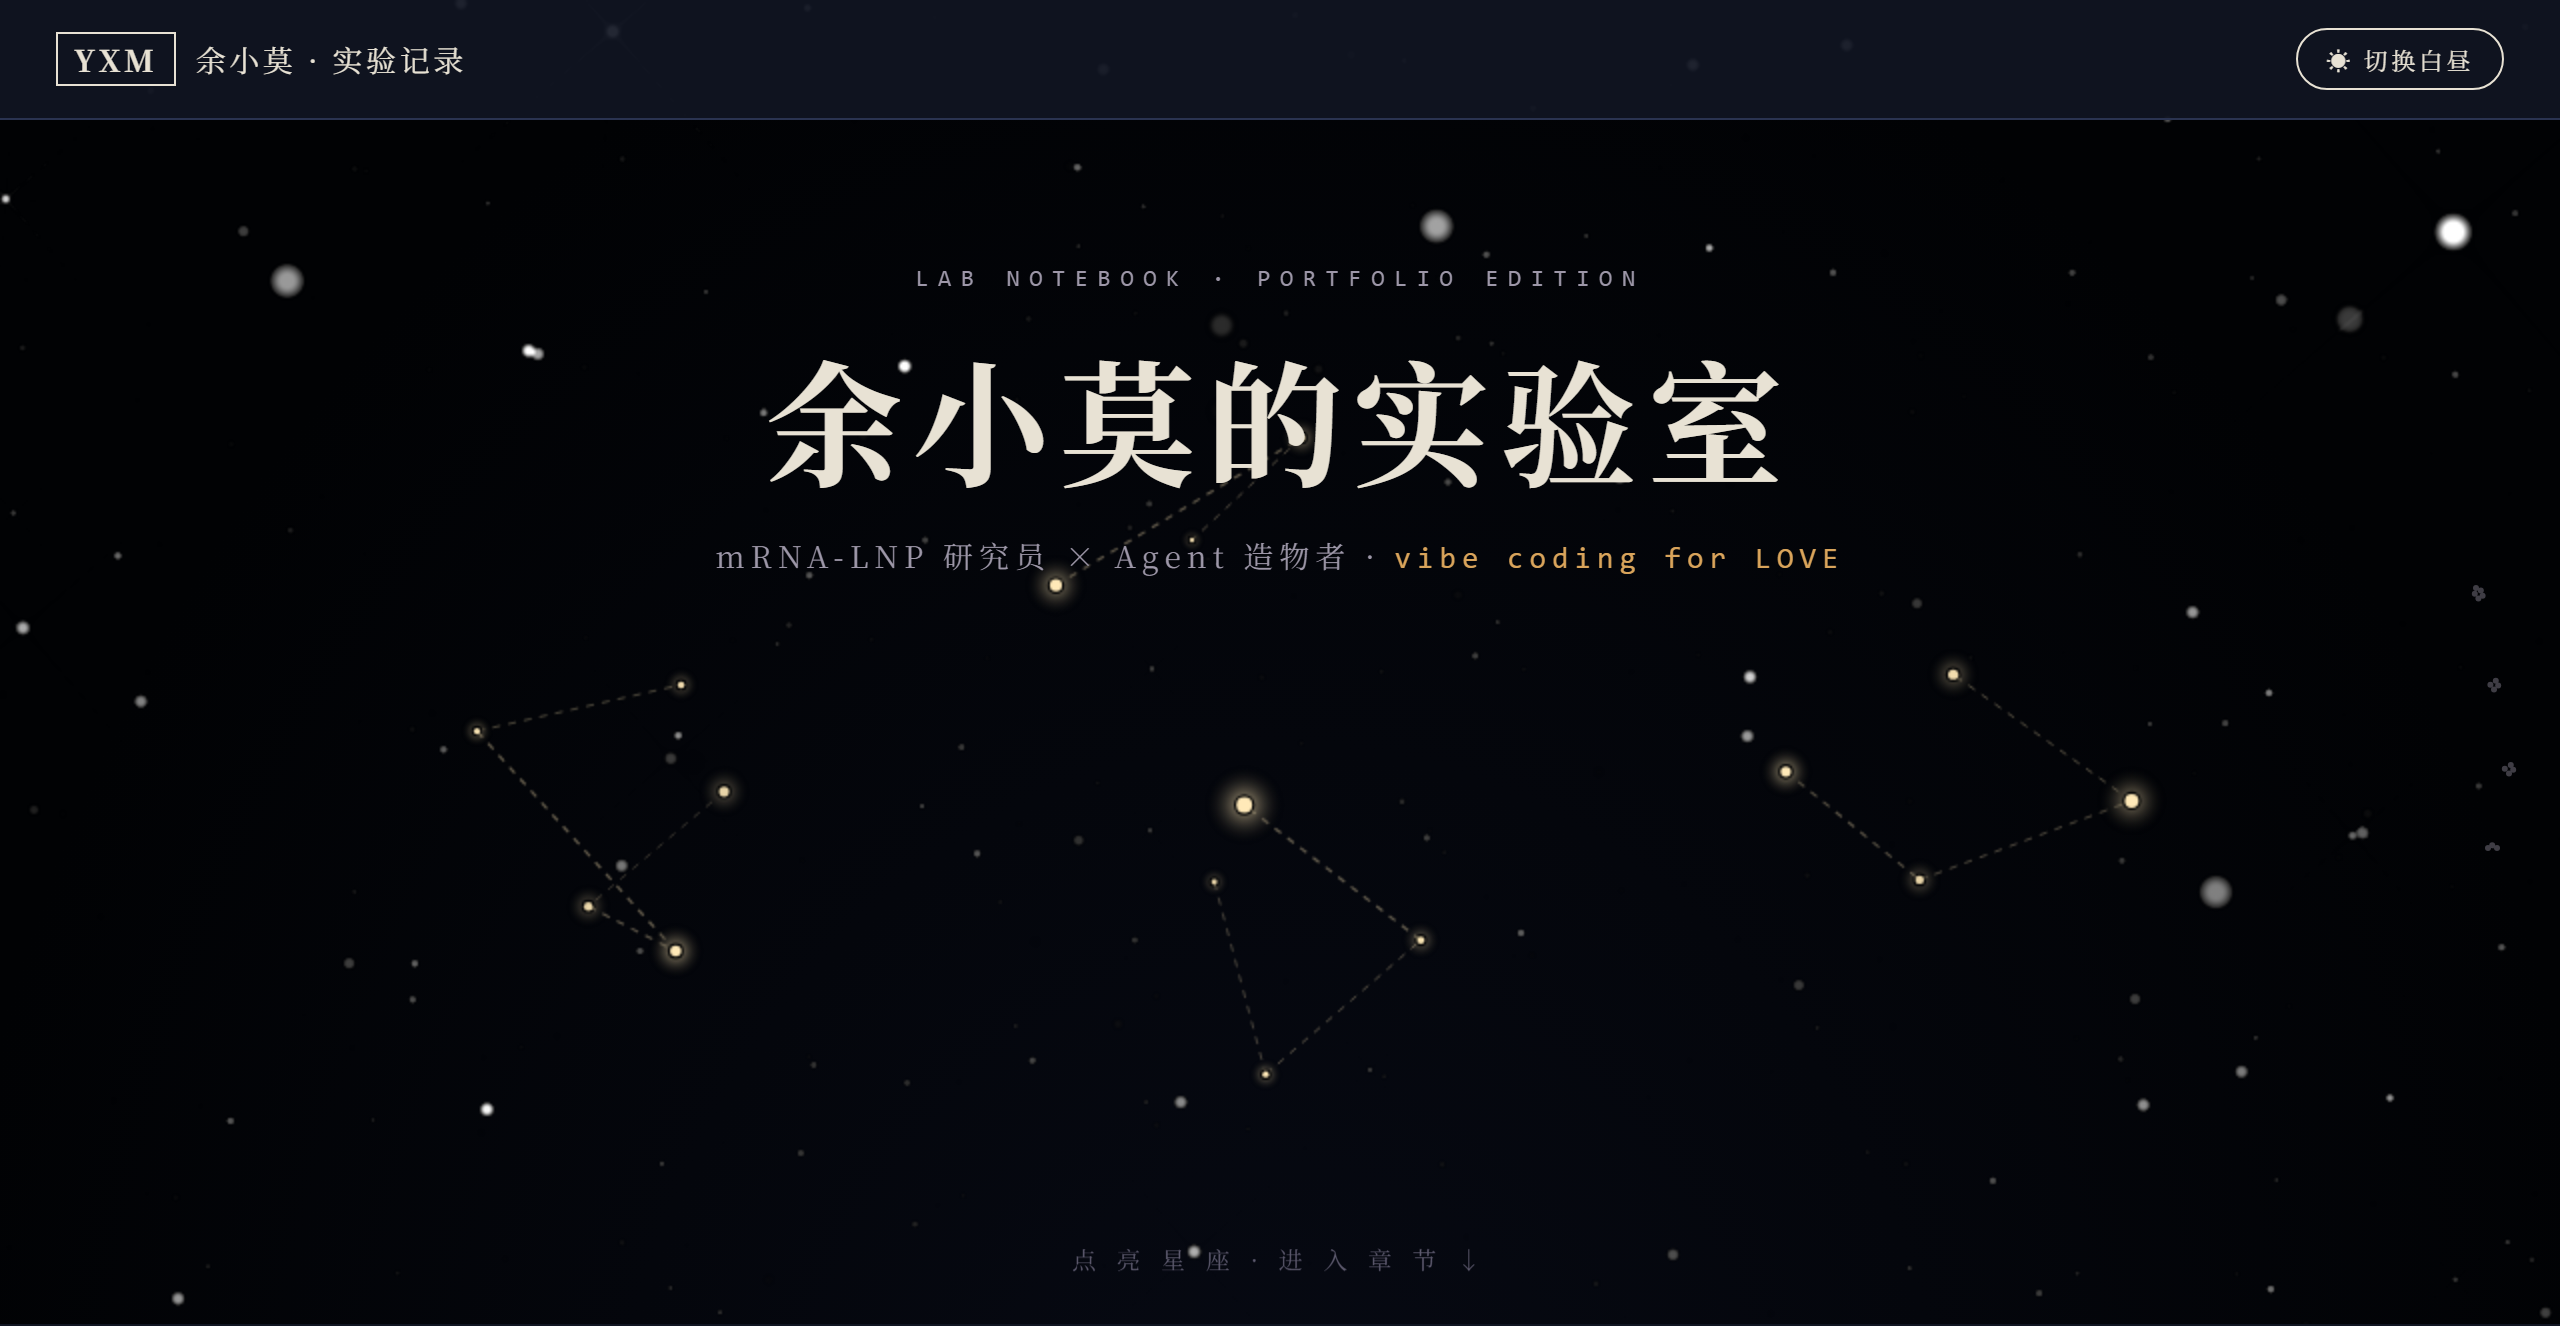
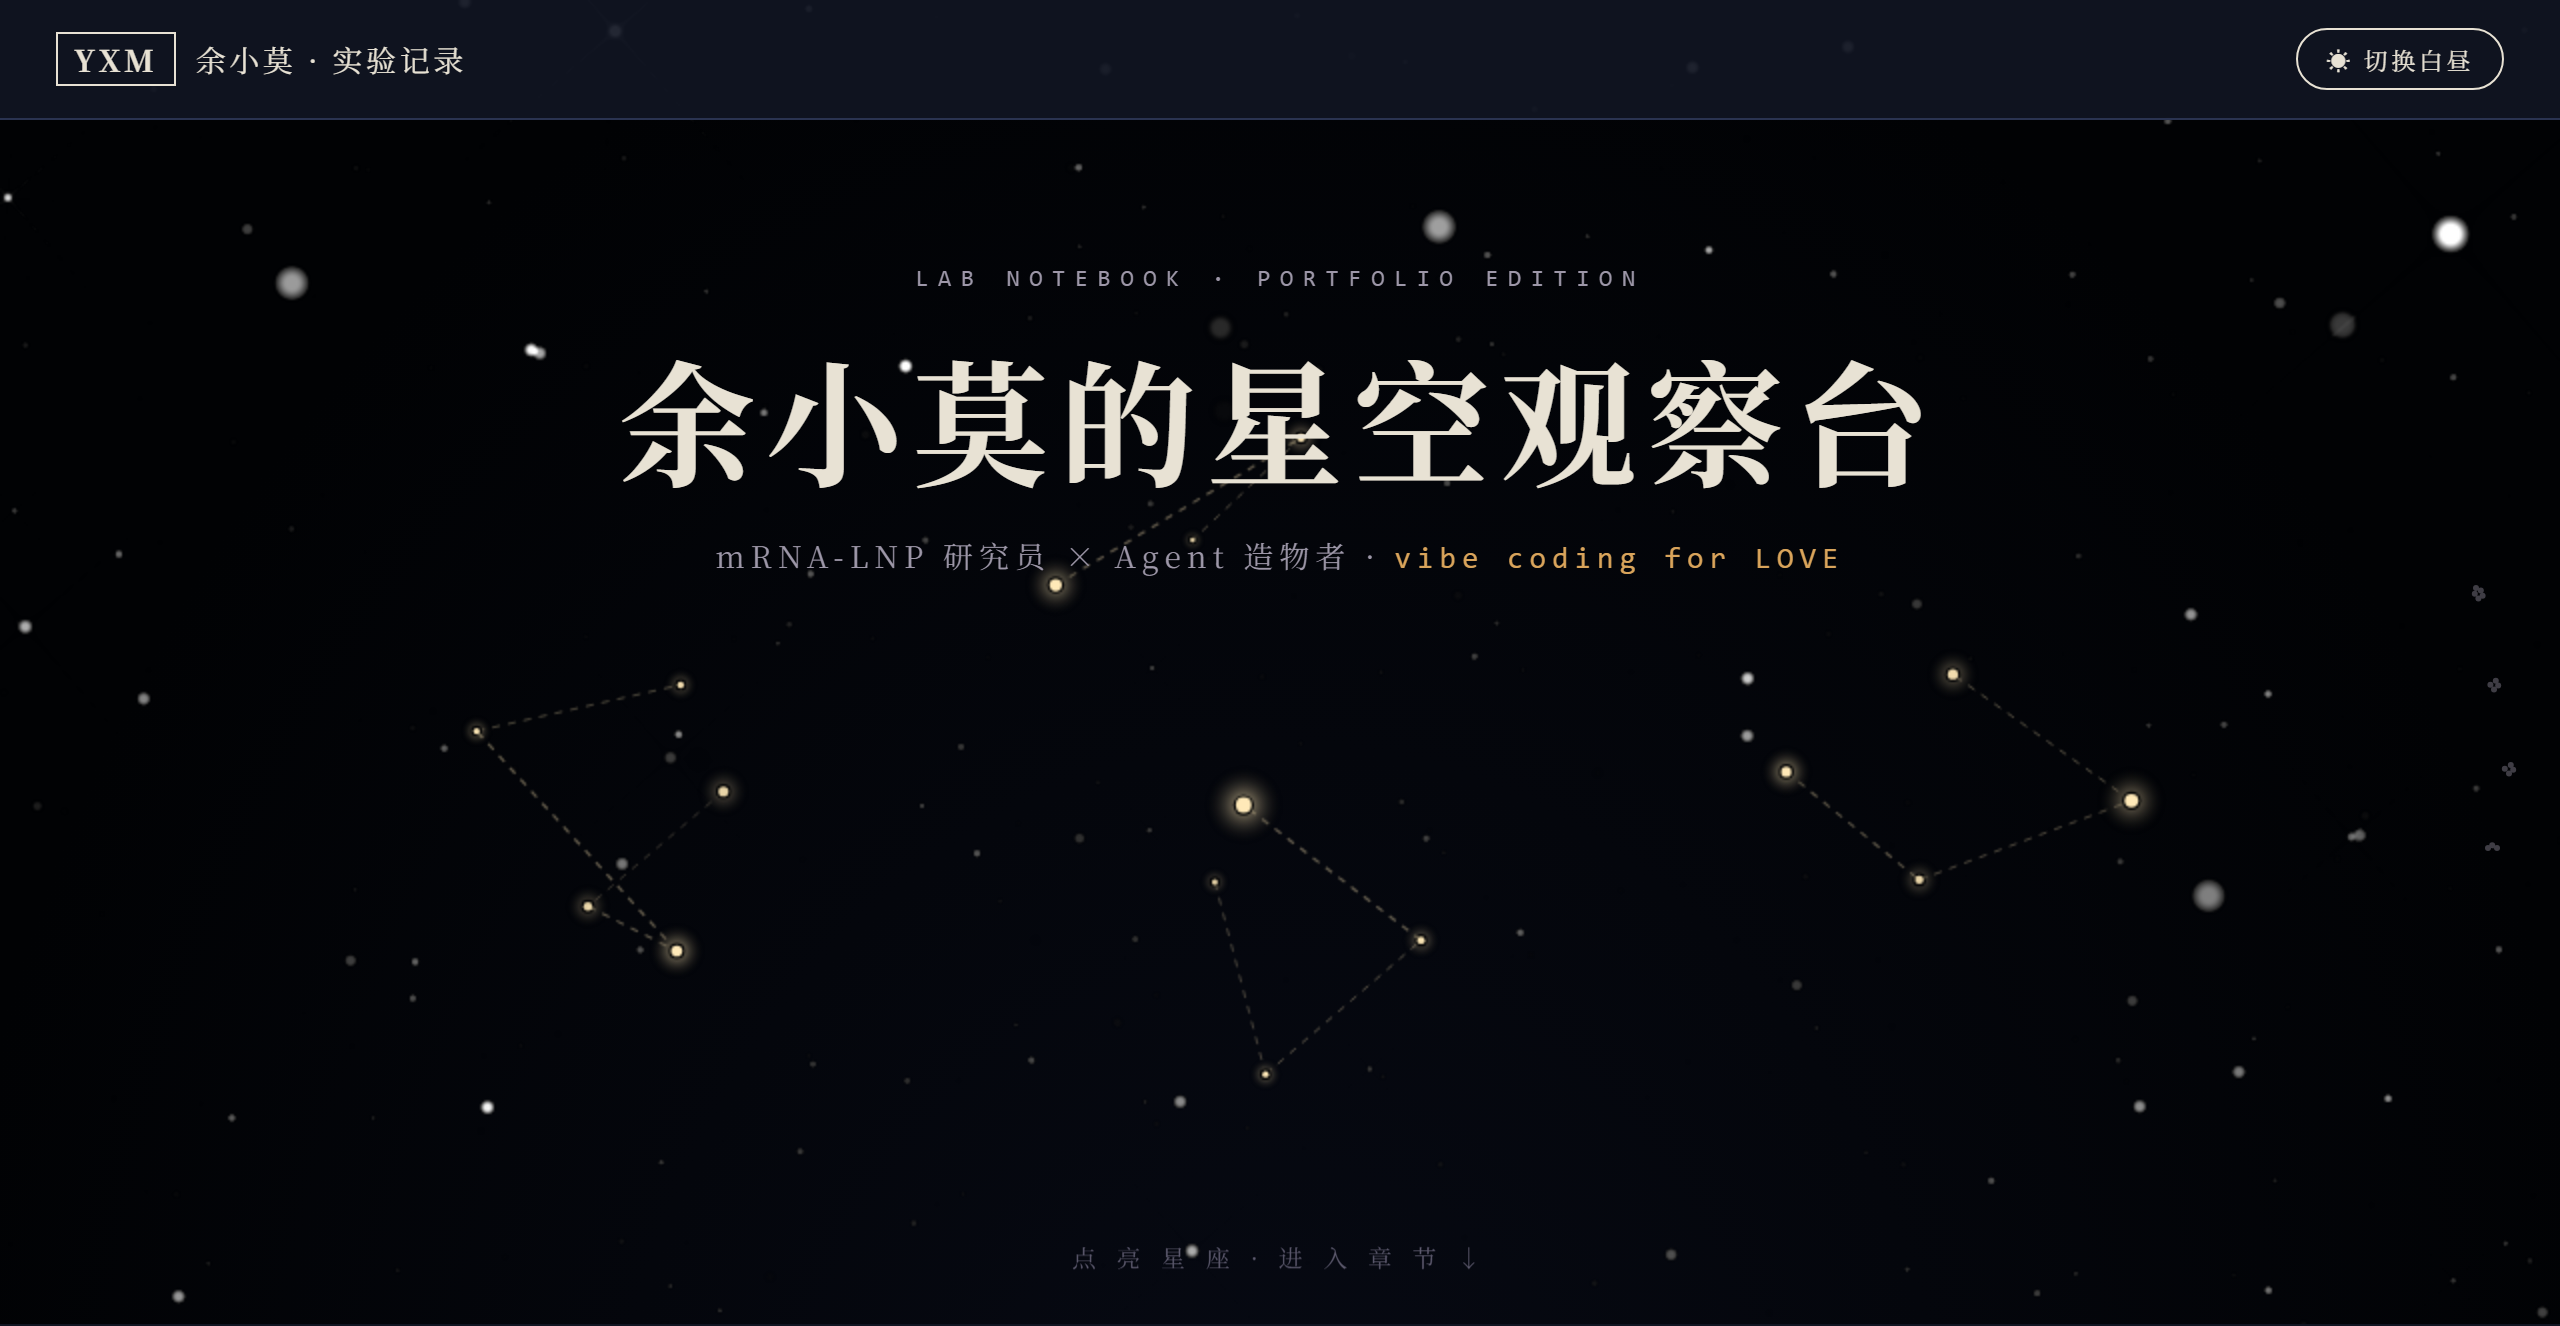
chore: 对齐项目名「余小莫的星空观察台」（页面标题 + hero 主标题 + README 预览图）

diff --git a/index.html b/index.html
@@ -3,7 +3,7 @@
 <head>
 <meta charset="UTF-8">
 <meta name="viewport" content="width=device-width, initial-scale=1.0">
-<title>余小莫 · 实验室作品集 — vibe coding for LOVE</title>
+<title>余小莫的星空观察台 — vibe coding for LOVE</title>
 <style>
 /* ============ 昼夜节律主题 ============ */
 :root, [data-mode="day"] {
@@ -267,7 +267,7 @@ footer { margin-top:100px; border-top:1.5px solid var(--ink); background:var(--p
   <div class="star-tip" id="tip"></div>
   <div class="hero-title">
     <div class="fig mono">LAB NOTEBOOK · PORTFOLIO EDITION</div>
-    <h1>余小莫的实验室</h1>
+    <h1>余小莫的星空观察台</h1>
     <p>mRNA-LNP 研究员 × Agent 造物者 · <span class="mono">vibe coding for LOVE</span></p>
   </div>
   <div class="hero-hint">点 亮 星 座 · 进 入 章 节 ↓</div>
